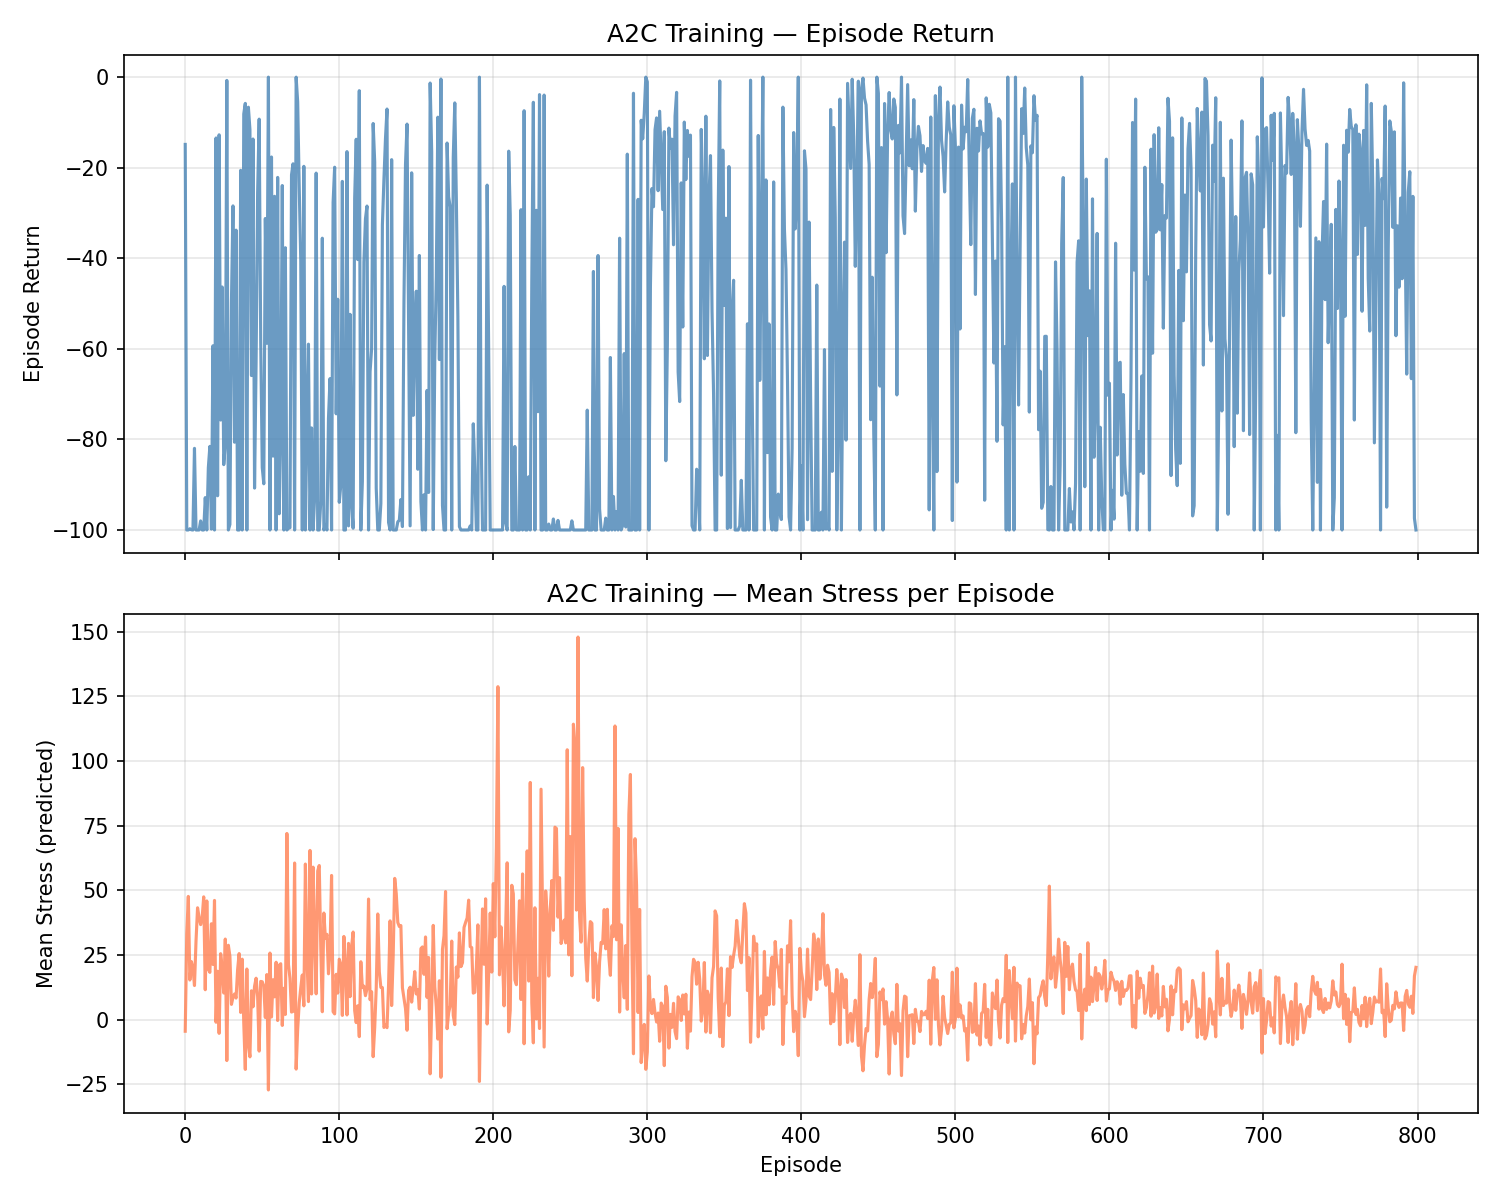
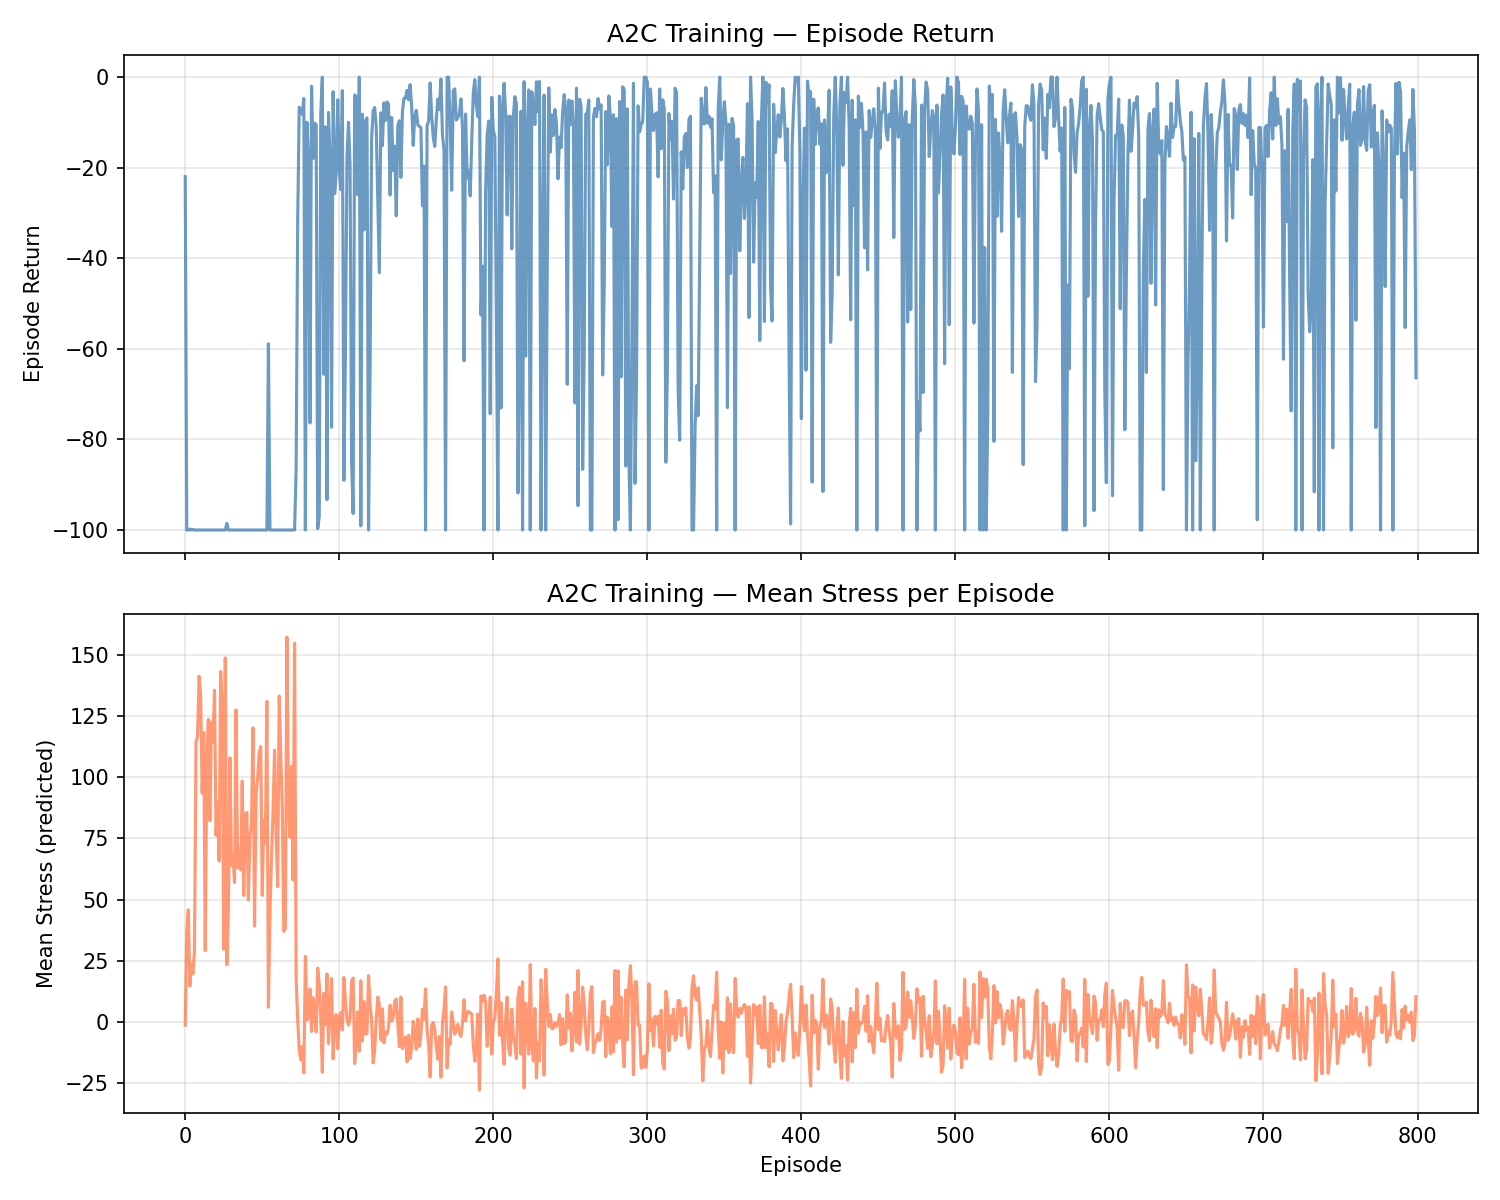
feat: n-step A2C, seed schedule, action dist plot, reward R²/RMSE, README and Korean font fix

diff --git a/train.py b/train.py
@@ -15,13 +15,46 @@ from pathlib import Path
 ROOT = Path(__file__).resolve().parent
 sys.path.insert(0, str(ROOT))
 
+import matplotlib
 import matplotlib.pyplot as plt
 import numpy as np
+import platform
+
+# 수정: 한글 표시 — 폰트 이름이 ttflist와 안 맞으면 DejaVu Sans로 남아 경고 발생하므로, 경로로 폰트 지정
+def _get_korean_font_prop():
+    """한글 지원 폰트 파일 경로를 찾아 FontProperties 반환. 없으면 None."""
+    if platform.system() == "Darwin":
+        # macOS 기본 한글 폰트 경로 (버전별로 다를 수 있음, .ttc 컬렉션 포함)
+        paths = [
+            Path("/System/Library/Fonts/Supplemental/AppleGothic.ttf"),
+            Path("/System/Library/Fonts/AppleGothic.ttf"),
+            Path("/System/Library/Fonts/AppleGothic.ttc"),
+            Path("/Library/Fonts/AppleGothic.ttf"),
+            Path("/System/Library/Fonts/Apple SD Gothic Neo.ttf"),
+            Path("/System/Library/Fonts/Apple SD Gothic Neo.ttc"),
+            Path.home() / "Library/Fonts/NanumGothic.ttf",
+        ]
+    elif platform.system() == "Windows":
+        paths = [
+            Path("C:/Windows/Fonts/malgun.ttf"),
+            Path("C:/Windows/Fonts/NanumGothic.ttf"),
+        ]
+    else:
+        paths = [Path("/usr/share/fonts/truetype/nanum/NanumGothic.ttf")]
+    for p in paths:
+        if p.exists():
+            return matplotlib.font_manager.FontProperties(fname=str(p))
+    return None
+
+from sklearn.metrics import mean_squared_error, r2_score
 
 from src.data_loader import DataLoader
 from src.env import DevStressEnv
 from src.reward_model import StressRewardModel
 from src.a2c import A2CAgent
+
+# 수정: Action Distribution 시각화용 레이블
+ACTION_LABELS = ["집중근무", "휴식", "커피", "디버깅"]
 
 
 # 기본 하이퍼파라미터
@@ -72,6 +105,12 @@ def main():
     reward_model = StressRewardModel(alpha=1.0, stress_scale=-1.0, reward_scale=0.1)
     reward_model.fit(X, y)
     print("[RewardModel] Stress_Level 회귀 모델 학습 완료")
+    # 수정: 학습 데이터 기준 보상 모델 성능 출력 (R², RMSE)
+    X_scaled = reward_model.scaler_x.transform(X)
+    y_pred = reward_model.model.predict(X_scaled)
+    r2 = r2_score(y, y_pred)
+    rmse = np.sqrt(mean_squared_error(y, y_pred))
+    print(f"[RewardModel] 학습 데이터 기준 R²={r2:.4f}, RMSE={rmse:.4f}")
 
     # ---------- 3. 환경 및 에이전트 ----------
     env = DevStressEnv(
@@ -88,17 +127,23 @@ def main():
         entropy_coef=0.05,  # 탐색 강화: 휴식/디버깅 등 스트레스 감소 행동 발견 유도
     )
 
-    # ---------- 4. 학습 루프 (A2C 롤아웃 후 업데이트) ----------
+    # ---------- 4. 학습 루프 (n-step A2C: 매 n_steps마다 중간 업데이트) ----------
     episode_rewards: list = []
     episode_stresses: list = []
+    # 수정: 에피소드별 액션 선택 횟수 기록 → 마지막 100 에피소드 분포 시각화용
+    episode_action_counts: list = []
     global_step = 0
 
     for episode in range(args.n_episodes):
-        obs, _ = env.reset(seed=args.seed + episode)
+        # 수정: 초반 절반은 시드 고정(과적합 완화), 후반은 seed=None으로 랜덤 리셋
+        reset_seed = (args.seed + episode) if episode < args.n_episodes // 2 else None
+        obs, _ = env.reset(seed=reset_seed)
         episode_reward = 0.0
         episode_stress_list: list = []
+        # 수정: 에피소드 내 선택한 액션 기록 (분포 집계용)
+        episode_actions: list = []
 
-        # 롤아웃 버퍼
+        # 롤아웃 버퍼 (n_steps마다 한 번씩 업데이트에 사용)
         states_buf: list = []
         actions_buf: list = []
         rewards_buf: list = []
@@ -107,6 +152,7 @@ def main():
         for step in range(args.max_steps):
             action, log_prob, entropy, value = agent.select_action(obs, deterministic=False)
             agent.store_step_values(value)
+            episode_actions.append(action)
 
             states_buf.append(obs)
             actions_buf.append(action)
@@ -122,25 +168,49 @@ def main():
             obs = next_obs
             global_step += 1
 
+            # 수정: n-step A2C — 버퍼가 정확히 n_steps일 때만 업데이트 (값 버퍼와 길이 일치 유지)
+            if len(states_buf) == args.n_steps:
+                agent.finish_rollout()
+                n_use = args.n_steps
+                states_arr = np.array(states_buf[:n_use])
+                actions_arr = np.array(actions_buf[:n_use])
+                rewards_arr = np.array(rewards_buf[:n_use])
+                dones_arr = np.array(dones_buf[:n_use])
+                agent.update(
+                    states=states_arr,
+                    actions=actions_arr,
+                    rewards=rewards_arr,
+                    dones=dones_arr,
+                    next_states=obs,
+                    next_done=done,
+                )
+                states_buf = states_buf[n_use:]
+                actions_buf = actions_buf[n_use:]
+                rewards_buf = rewards_buf[n_use:]
+                dones_buf = dones_buf[n_use:]
+
             if done:
                 break
 
-        # 롤아웃 수집 완료 → 다음 상태는 마지막 next_obs
-        agent.finish_rollout()
-        next_done = True  # 에피소드 끝났으므로
-        states_arr = np.array(states_buf)
-        actions_arr = np.array(actions_buf)
-        rewards_arr = np.array(rewards_buf)
-        dones_arr = np.array(dones_buf)
+        # 수정: 에피소드 종료 시 남은 스텝이 있으면 한 번 더 업데이트
+        if len(states_buf) > 0:
+            agent.finish_rollout()
+            states_arr = np.array(states_buf)
+            actions_arr = np.array(actions_buf)
+            rewards_arr = np.array(rewards_buf)
+            dones_arr = np.array(dones_buf)
+            agent.update(
+                states=states_arr,
+                actions=actions_arr,
+                rewards=rewards_arr,
+                dones=dones_arr,
+                next_states=obs,
+                next_done=True,
+            )
 
-        agent.update(
-            states=states_arr,
-            actions=actions_arr,
-            rewards=rewards_arr,
-            dones=dones_arr,
-            next_states=next_obs,
-            next_done=next_done,
-        )
+        # 수정: 에피소드별 액션 카운트 저장 (0~3 인덱스별 횟수)
+        counts = np.bincount(episode_actions, minlength=action_dim)
+        episode_action_counts.append(counts)
 
         mean_stress = np.mean(episode_stress_list) if episode_stress_list else 0.0
         episode_rewards.append(episode_reward)
@@ -194,6 +264,30 @@ def main():
         plt.savefig(save_dir / "training_curves_smooth.png", dpi=150)
         plt.close()
         print(f"[시각화] 저장됨: {save_dir / 'training_curves_smooth.png'}")
+
+    # 수정: 마지막 100 에피소드 기준 Action Distribution 막대 그래프 저장 (한글 폰트 경로로 적용해 DejaVu Sans 경고 제거)
+    korean_font = _get_korean_font_prop()
+    last_n = min(100, len(episode_action_counts))
+    if last_n > 0:
+        last_counts = np.array(episode_action_counts[-last_n:])
+        action_totals = last_counts.sum(axis=0)
+        fig_dist, ax_dist = plt.subplots(1, 1, figsize=(8, 4))
+        ax_dist.bar(ACTION_LABELS, action_totals, color=["#2ecc71", "#3498db", "#e67e22", "#9b59b6"], edgecolor="black", alpha=0.8)
+        ax_dist.set_xticks(range(len(ACTION_LABELS)))
+        if korean_font is not None:
+            ax_dist.set_ylabel("선택 횟수", fontproperties=korean_font)
+            ax_dist.set_title(f"Action Distribution (마지막 {last_n} 에피소드)", fontproperties=korean_font)
+            ax_dist.set_xticklabels(ACTION_LABELS, fontproperties=korean_font)
+        else:
+            ax_dist.set_ylabel("선택 횟수")
+            ax_dist.set_title(f"Action Distribution (마지막 {last_n} 에피소드)")
+            ax_dist.set_xticklabels(ACTION_LABELS)
+        matplotlib.rcParams["axes.unicode_minus"] = False
+        plt.tight_layout()
+        action_dist_path = save_dir / "action_dist.png"
+        plt.savefig(action_dist_path, dpi=150)
+        plt.close()
+        print(f"[시각화] 저장됨: {action_dist_path}")
 
     print("학습 완료.")
 
